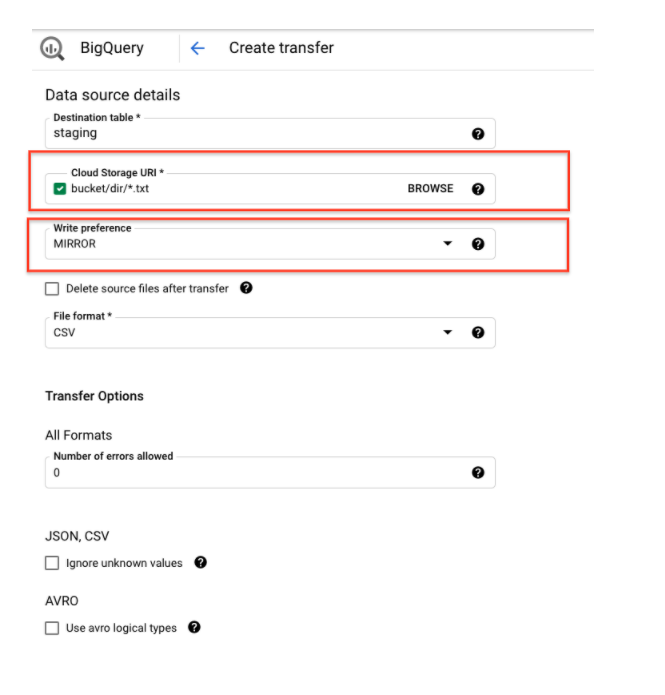
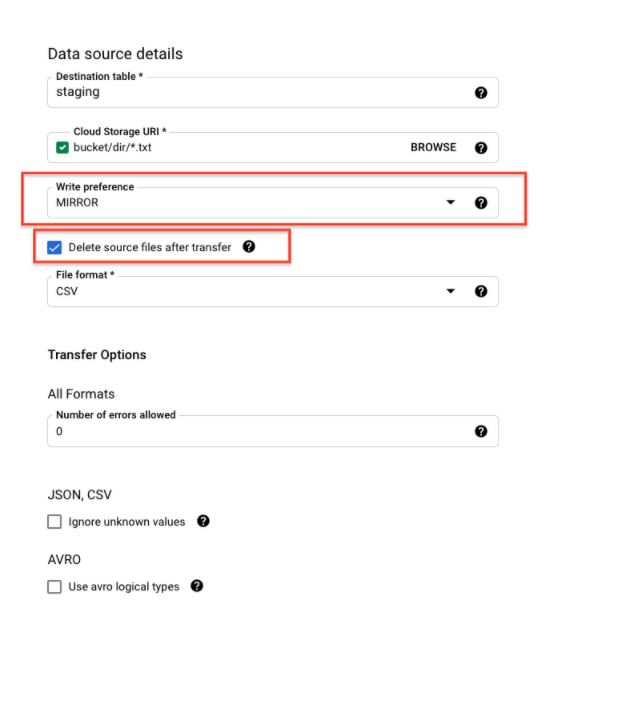
updated doc

diff --git a/README.md b/README.md
@@ -55,6 +55,13 @@ and set up a GCS transfer to BigQuery
 ![](images/transfer_job_2.png?raw=true)
 ![](images/transfer_job_3.png?raw=true)
 
+Notes:
+* Since we're not recreating the staging table at every load we need to
+truncate the existing table and load new data as-is. This is the "Write Preference=Mirror" config.
+* In this demo we choose to delete the source files after loading to BigQuery for simplicity to avoid 
+  reloading the same data in next runs. [Read more](https://cloud.google.com/bigquery-transfer/docs/gcs-transfer-parameters#loading_a_snapshot_of_all_data_into_an_ingestion-time_partitioned_table) about loading data from time partitioned buckets.
+
+
 
 #### Schedule a MERGE query
 
@@ -76,7 +83,8 @@ Finally, set up the a schedule some time after the GCS transfer job start time
 
 ![](images/scheduled_query_config.png?raw=true)
 
-PS: one will need am estimate on how long the transfer job takes and add a reasonable buffer time
+Notes:
+ * one will need am estimate on how long the transfer job takes and add a reasonable buffer time
 
 ## Further Reading
 * [Loading a snapshot of all data into an ingestion-time partitioned table](https://cloud.google.com/bigquery-transfer/docs/gcs-transfer-parameters#loading_a_snapshot_of_all_data_into_an_ingestion-time_partitioned_table)
